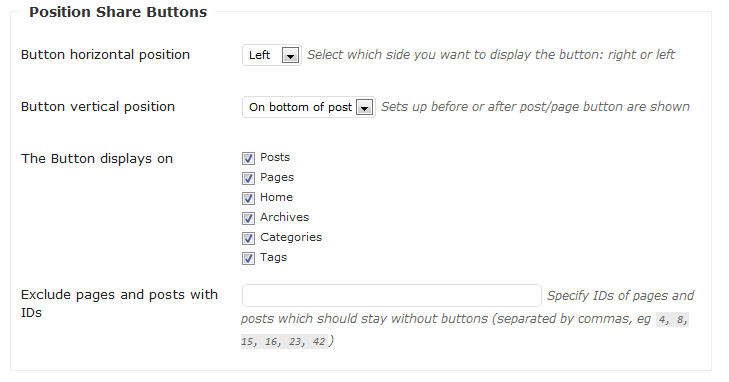
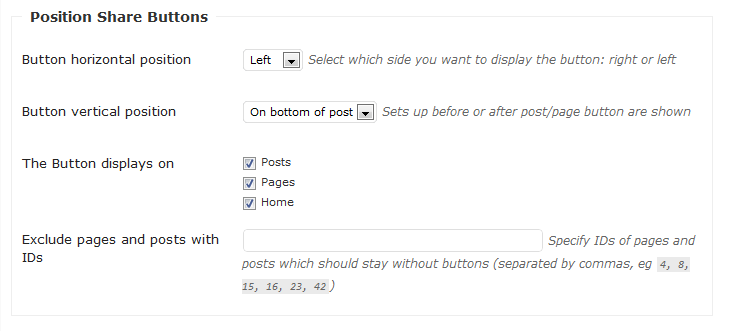
git-svn-id: https://plugins.svn.wordpress.org/share-buttons/tags/2.6@444311 b8457f37-d9ea-0310-8a92-e5e31aec5664

diff --git a/css/share-buttons-user.css b/css/share-buttons-user.css
@@ -33,11 +33,25 @@
 	margin:0px 0px 0px 0px;
 	padding: 0px 0px 0px 0px;
 }
+
+.buttons_share a img {
+	border:0px;
+	margin:0px 0px 0px 0px;
+	padding: 0px 0px 0px 0px;
+}
+
 .odkl img, .vk img, .mailru img, .fb img, .twitter img, .livejournal img, .googlebuzz img, .yandex img, .googleplus img  {
 	margin:0px;
 	padding:0px;
 	border:0px;
 }
+
+.odkl a img, .vk a img, .mailru a img, .fb a img, .twitter a img, .livejournal a img, .googlebuzz a img, .yandex a img, .googleplus a img  {
+	margin:0px;
+	padding:0px;
+	border:0px;
+}
+
 .odkl, .vk, .mailru, .fb, .twitter, .livejournal, .googlebuzz, .yandex, .googleplus  {
 	float:left;
 	height:40px;
@@ -49,6 +63,13 @@
 	padding:0px;
 	border:0px;
 }
+
+.odkl-mini a img, .vk-mini a img, .mailru-mini a img, .fb-mini a img, .twitter-mini a img, .livejournal-mini a img, .googlebuzz-mini a img, .yandex-mini a img, .googleplus-mini a img  {
+	margin:0px;
+	padding:0px;
+	border:0px;
+}
+
 
 .odkl-mini, .vk-mini, .mailru-mini, .fb-mini, .twitter-mini, .livejournal-mini, .googlebuzz-mini, .yandex-mini, .googleplus-mini  {
 	float:left;

diff --git a/share-buttons.php b/share-buttons.php
@@ -38,9 +38,6 @@
 		var $show_on_post;
 		var $show_on_page;
 		var $show_on_home;
-		var $show_on_cat;
-		var $show_on_archive;
-		var $show_on_tag;
 		var $margin_top;
 		var $margin_bottom;
 
@@ -113,9 +110,6 @@
 		$this->show_on_post = get_option('share_buttons_show_on_posts');
 		$this->show_on_page = get_option('share_buttons_show_on_pages');
 		$this->show_on_home = get_option('share_buttons_show_on_home');
-		$this->show_on_archive = get_option('share_buttons_show_on_archive');
-		$this->show_on_cat = get_option('share_buttons_show_on_cat');
-		$this->show_on_tag = get_option('share_buttons_show_on_tag');
 		$this->margin_top = get_option('margin_top');
 		$this->margin_bottom = get_option('margin_bottom');
 
@@ -163,9 +157,6 @@
 		add_option('share_buttons_show_on_posts', TRUE);
 		add_option('share_buttons_show_on_pages', TRUE);
 		add_option('share_buttons_show_on_home', TRUE);
-		add_option('share_buttons_show_on_archive', TRUE);
-		add_option('share_buttons_show_on_cat', TRUE);
-		add_option('share_buttons_show_on_tag', TRUE);
 
 		add_option('margin_top', '0');
 		add_option('margin_bottom', '5');
@@ -195,8 +186,8 @@
 		add_option('facebook_like_verb', 'like');
 
 
-		add_option('buttons_show', 'facebook,googlebuzz,googleplus,livejournal,mailru,odnoklassniki,twitter,vkontakte,yandex');
-		add_option('buttons_sort', $this->social_name);
+		add_option('buttons_sort', 'facebook,googlebuzz,googleplus,livejournal,mailru,odnoklassniki,twitter,vkontakte,yandex');
+		add_option('buttons_show', $this->social_name);
 
 
 		add_option('twitter_via','');
@@ -216,9 +207,6 @@
 		register_setting( 'sb-settings-group', 'share_buttons_show_on_posts' );
 		register_setting( 'sb-settings-group', 'share_buttons_show_on_pages' );
 		register_setting( 'sb-settings-group', 'share_buttons_show_on_home' );
-		register_setting( 'sb-settings-group', 'share_buttons_show_on_archive' );
-		register_setting( 'sb-settings-group', 'share_buttons_show_on_cat' );
-		register_setting( 'sb-settings-group', 'share_buttons_show_on_tag' );
 
 		register_setting( 'sb-settings-group', 'margin_top' );
 		register_setting( 'sb-settings-group', 'margin_bottom' );
@@ -290,11 +278,15 @@
 		$get_like_buttons = $this->the_like_button();
 		$pos = get_option('share_buttons_position');
 		$vpos = get_option('share_buttons_vposition');
+
 		$share_buttons = '<div style="clear:both;"></div>';
+
 		$like_buttons = '<div style="clear:both;"></div>';
+
 		if(!empty($this->header_text)) {
 			$share_buttons .= '<div class="header_text"><h3>'.$this->header_text.'</h3></div>';
 		}
+
 		if ($pos == 'right')
 		// right alignment
 			$share_buttons .= "<div name=\"#\" class=\"buttons_share\" style=\"float: $pos; margin-top:".$this->margin_top."px; margin-bottom:".$this->margin_bottom."px;\">\r\n$get_share_buttons\r\n</div><div style=\"clear:both;\"></div>";
@@ -304,16 +296,20 @@
 
 		$like_buttons .= "<div name=\"#\" style=\"float: left;\">\r\n$get_like_buttons\r\n</div><div style=\"clear:both;\"></div>";
 
-		if (is_single() && $this->show_on_post || is_page() && $this->show_on_page || is_home() && $this->show_on_home || is_category() && $this->show_on_cat || is_archive() && $this->show_on_archive || is_tag() && $this->show_on_tag) {
+		if (is_single() && $this->show_on_post || is_page() && $this->show_on_page || is_home() && $this->show_on_home) {
 			if ($vpos == 'top') {
 			// place button before post
-				echo $share_buttons . $content . $like_buttons;
+				return $share_buttons . $content . $like_buttons;
 			} else {
 			// after post
-				echo $content . $share_buttons . $like_buttons;
+				return $content . $share_buttons . $like_buttons;
 			}
-			return $content;
+
+
 		}
+
+		return $content;
+
 	}
 
 // Localization support

diff --git a/share-buttons-options.php b/share-buttons-options.php
@@ -300,7 +300,7 @@ jQuery(document).ready(function($){
 					<div class="body_enable">
 						<?php
 							$show=get_option('buttons_show');
-							if(@array_key_exists(01, $show)==false) {
+							if(@array_key_exists(0, $show)==false) {
 								$show = explode(',',$show);
 							}
 							$soc_name = array('Facebook', 'Google Buzz', 'Google Plus', 'LiveJournal', 'Mail.ru', 'Twitter', 'Одноклассники', 'Вконтакте','Yandex');
@@ -429,22 +429,6 @@ jQuery(document).ready(function($){
 								<?php _e('Home', $this->plugin_domain) ?>
 							</label>
 							<br />
-							<label for="share_buttons_show_on_archive">
-								<input name="share_buttons_show_on_archive" type="checkbox" id="share_buttons_show_on_archive" value="1" <?php checked(TRUE, $this->show_on_archive); ?> />
-								<?php _e('Archives', $this->plugin_domain) ?>
-							</label>
-							<br />
-							<label for="share_buttons_show_on_cat">
-								<input name="share_buttons_show_on_cat" type="checkbox" id="share_buttons_show_on_cat" value="1" <?php checked(TRUE, $this->show_on_cat); ?> />
-								<?php _e('Categories', $this->plugin_domain) ?>
-							</label>
-							<br />
-							<label for="share_buttons_show_on_tag">
-								<input name="share_buttons_show_on_tag" type="checkbox" id="share_buttons_show_on_tag" value="1" <?php checked(TRUE, $this->show_on_tag); ?> />
-								<?php _e('Tags', $this->plugin_domain) ?>
-							</label>
-							<br />
-
 						</td>
 					</tr>
 					<tr valign="top">

diff --git a/share-buttons-scripts.php b/share-buttons-scripts.php
@@ -22,7 +22,7 @@ class ButtonsScripts {
 	}
 
 	function initKeyed() {
-		if(@array_key_exists(01, $this->buttons_sort)==false) {
+		if(@array_key_exists(0, $this->buttons_sort)==false) {
 			$this->btnsort = explode(',', $this->buttons_sort);
 		} else {
 			$this->btnsort = $this->buttons_sort;

diff --git a/share/share_customize_type.php b/share/share_customize_type.php
@@ -217,7 +217,7 @@
 	$btnsort = explode(',',$btnsort);
 
 	$show = get_option('buttons_show');
-	if(@array_key_exists(01, $show)==false) {
+	if(@array_key_exists(0, $show)==false) {
 		$show = explode(',',$show);
 	}
 
